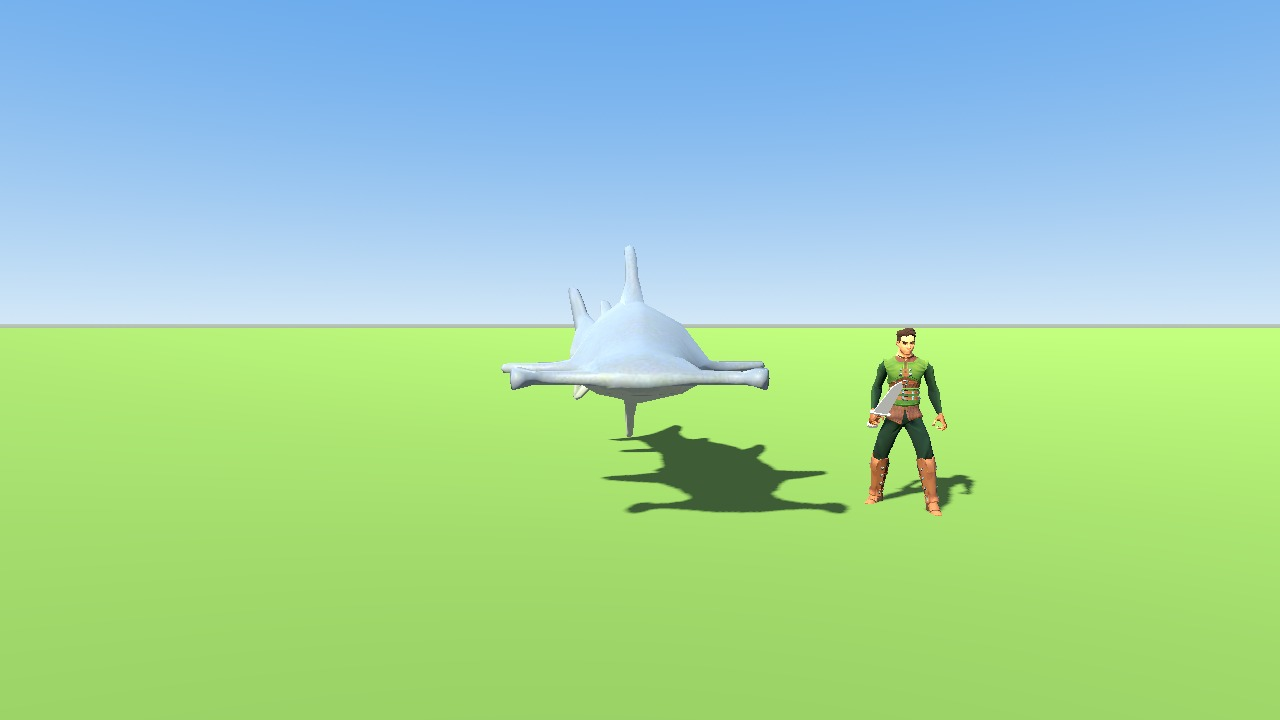
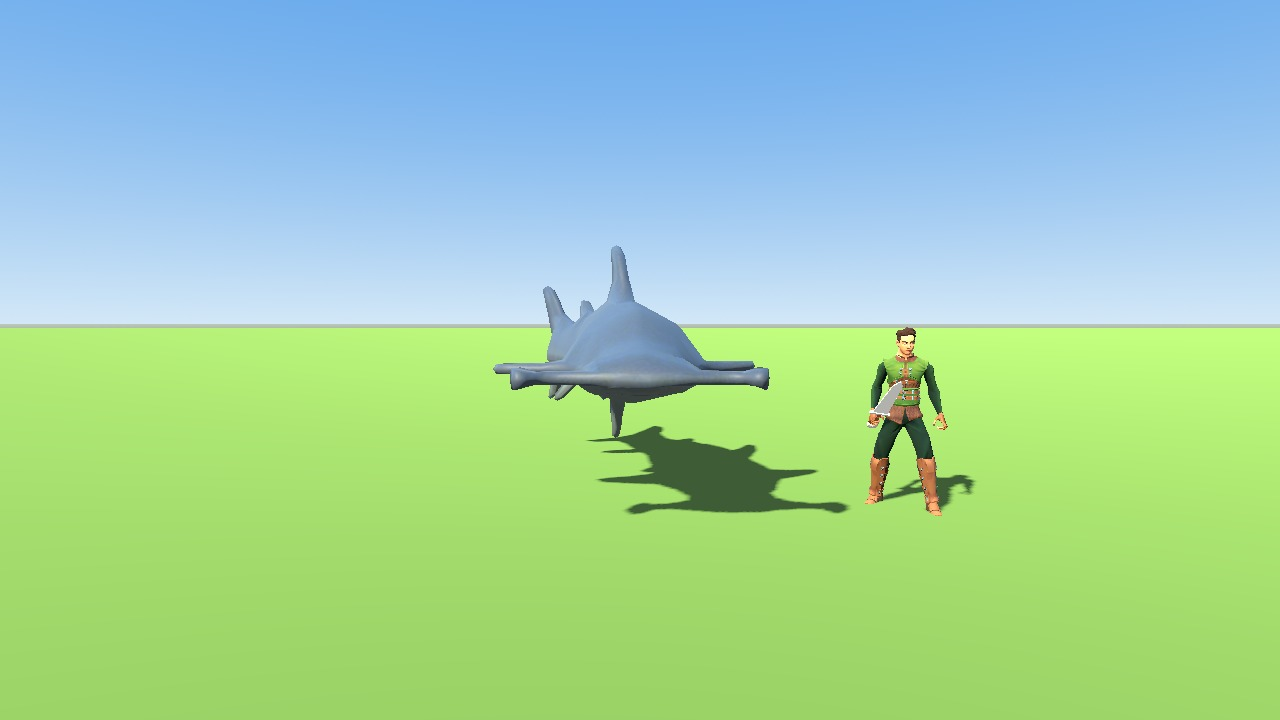
Som do jogo e tubarão conferido dentro do mar
Som: 22 arquivos gerados por síntese, classe Sons; teste_mundo TUDO PASSOU
(efeitos carregam, 4 laços tocam, passos ao andar, rugido ao domar). Ninguém ouviu:
este ambiente não tem saída de áudio.
Tubarão: 3 fotos dentro do mar com câmera solta; escurecido depois delas (só a bancada foi refeita).

Claude-Session: https://claude.ai/code/session_01Vzt37KowdLhiG16GmA9WD3

Changed region(s): [[0.375, 0.3361, 0.625, 0.7028], [0.5938, 0.6417, 0.6562, 0.6722], [0.6875, 0.5194, 0.7188, 0.55]]

diff --git a/assets/ASSETS.md b/assets/ASSETS.md
@@ -319,7 +319,7 @@ Pedida pelo Cristian depois do Marco 7: casas sem teto, plantação que não par
 
 
 ## Mapa novo: a ilha (24/11/2026, em construção)
-- **Tubarão (`assets/models/criaturas/tubarao/tubarao.glb`):** tubarão-martelo "Shark - low poly" de Phelippeau Rudy, OpenGameArt (https://opengameart.org/content/shark-low-poly), licença **CC0**. Baixado em 26/11/2026 com autorização do usuário ("já faz o tubarão"). Convertido de `.blend` para `.glb` por `tools/criaturas/converter_tubarao.py` (Blender 5.3 como módulo `bpy`): material refeito com a pintura original, sombreado suave e animação **`Swim`** criada no script (5 ossos: cabeça, corpo, cauda e duas barbatanas; a cauda ondula de lado). No jogo (`scripts/criaturas/tubarao.gd`, `Tubarao.criar_modelo()`): escala 0,75 (5,7 m), tingido de cinza-azulado, animação ativada de forma explícita. Bancada: `tools/bancada_construcao.gd -- tubarao`; fotos de lado, frente, costas, cima e cabeça ampliada em `docs/validacao/tubarao/`. O `PLACEHOLDER_Tubarao` (barbatana de prisma) foi substituído. Dentro do jogo só foi visto de longe (foto `docs/validacao/tubarao/20_no_mar.jpg`: o aviso aparece e há uma barbatana no horizonte; a câmera debaixo d'água sai lavada neste ambiente sem placa de vídeo). Conferir de perto no Mac. Estilo: malha de poucos polígonos com sombreado suave; conferido contra o Torin.
+- **Tubarão (`assets/models/criaturas/tubarao/tubarao.glb`):** tubarão-martelo "Shark - low poly" de Phelippeau Rudy, OpenGameArt (https://opengameart.org/content/shark-low-poly), licença **CC0**. Baixado em 26/11/2026 com autorização do usuário ("já faz o tubarão"). Convertido de `.blend` para `.glb` por `tools/criaturas/converter_tubarao.py` (Blender 5.3 como módulo `bpy`): material refeito com a pintura original, sombreado suave e animação **`Swim`** criada no script (5 ossos: cabeça, corpo, cauda e duas barbatanas; a cauda ondula de lado). No jogo (`scripts/criaturas/tubarao.gd`, `Tubarao.criar_modelo()`): escala 0,75 (5,7 m), tingido de cinza-azulado, animação ativada de forma explícita. Bancada: `tools/bancada_construcao.gd -- tubarao`; fotos de lado, frente, costas, cima e cabeça ampliada em `docs/validacao/tubarao/`. O `PLACEHOLDER_Tubarao` (barbatana de prisma) foi substituído. Dentro do jogo foi fotografado na água com câmera solta, de lado, de cima e de frente (`docs/validacao/tubarao/40_` a `42_`): aparece, vem de cabeça para o Torin e ondula o corpo. Depois dessas fotos foi escurecido mais um pouco (saía claro) e refotografado só na bancada. A água deste ambiente sem placa de vídeo sai branca, então a linha d'água no corpo dele precisa ser conferida no Mac. Estilo: malha de poucos polígonos com sombreado suave; conferido contra o Torin.
 - A ilha em si (costa, estradas, rios, biomas) é gerada por código a partir de `scripts/mundo/mundo_dados.gd`; não usa asset novo. Detalhes em `docs/mapa-novo/CONSTRUCAO_v1.md`.
 
 ## O reino de Valdoria (25/11/2026)
@@ -335,3 +335,8 @@ Pedida pelo Cristian depois do Marco 7: casas sem teto, plantação que não par
 - Pinturas desenhadas por código: `fachadas.gd` (térreo de pedra e rebocado, sobrado de enxaimel, telhas, luz de janela) e `pedra.gd` (cantaria e calçamento).
 - O rei usa o modelo `scenes/personagens/solon.tscn`; guardas e sentinelas, `guarda_imperial.tscn`; todos como gente (Npc), não como inimigo.
 - As seções mais antigas deste arquivo sobre "o reino de Valdoria" (círculo de 1,1 km, bairros, casas de rua) descrevem versões que não existem mais.
+
+## Som (26/11/2026)
+
+- **`assets/audio/*.wav` (22 arquivos, 4 MB):** todos GERADOS por síntese em `tools/audio/gerar_sons.py` (numpy; nada baixado, sem licença de terceiros). 22050 Hz, mono, 16 bits. Efeitos: `passo_terra_0..2`, `passo_pedra_0..2`, `casco`, `golpe`, `acerto`, `dano`, `coletar`, `morte`, `aviso`, `asa`, `rugido`, `passaro_0..2`. Laços (o fim é misturado com o começo; salto na emenda medido abaixo de 0,005): `vento`, `mar`, `grilos`, `musica` (alaúde dedilhado sobre pedal grave, em ré dórico, 58 s).
+- **Quem toca:** `scripts/som/sons.gd` (classe `Sons`, filho do `Jogo`), que só observa o jogador, o clima e a costa. Conferido por teste em `tools/teste_mundo.gd` (carregam, os laços tocam, passos saem ao andar, rugido ao domar). **Ninguém OUVIU ainda:** este ambiente não tem saída de áudio; volume, timbre e gosto precisam ser conferidos no Mac.

diff --git a/CLAUDE.md b/CLAUDE.md
@@ -129,3 +129,4 @@ ReinoDeCinzas/
 - 26/11/2026: o usuário pediu para ANOTAR, para fazer depois: **uma montanha gigante com dragões, onde o Torin vai domar e montar o primeiro dragão**. Ainda não começou; registro em `docs/mapa-novo/IDEIAS-DO-CRISTIAN.md`. E mudou o método das construções (ver "Construções: uma peça por vez, em bancada"): ordem combinada muralha -> rua -> casa.
 - 25/11/2026 (CONSTRUÇÕES e LIMPEZA): o usuário mudou de novo o ritmo: **construir tudo primeiro e atacar os pontos fracos depois** (não parar para aprovar peça por peça; os fracos ficam anotados em `docs/construcoes/*.md`). Kits novos em `scripts/mundo/`: `pecas_de_construcao.gd` (base), `pecas_da_muralha.gd`, `pecas_da_rua.gd` (calçada, lampiões, placas, barraca, carroça) e `catedral.gd`; a casa do casario ganhou relevo. Cada um tem bancada em `tools/bancada_construcao.gd -- muralha|rua|feira|catedral`. E pediu para **ficar só o que o jogo usa, com os arquivos organizados**: saíram `wip/`, 69 ferramentas antigas e duas cenas de teste (lista em `docs/MAPA-DO-TRABALHO.md`). Por isso as ferramentas citadas acima que não existem mais (`auditoria_mundo`, `auditoria_portais`, `auditoria_continua`, `auditoria_cercos`, `auditoria_buracos`, `auditoria_logica`, `teste_cadeia`, `teste_jogo`, `teste_cena`, `percurso_real`, `capturar_*` antigos) NÃO devem ser procuradas: hoje confere-se com `tools/teste_mundo.gd`, `tools/auditoria_reino.gd`, `tools/capturar_reino.gd` (aceita filtro: `-- 02_ 08_`) e as bancadas. AINDA NÃO saiu (toca muitos arquivos, precisa de plano): o código da história e das missões (`scripts/missoes/`, partes de `scripts/jogo/jogo.gd`) e as cenas `scenes/areas/valdoria.tscn` e `castelo_imperial.tscn`, que o jogo não mostra mais.
 - 26/11/2026 (PEDIDO: "faz tudo, só me fala quando terminar"): o usuário NÃO quer atualizações no meio do trabalho nem mensagens longas: quer só "pronto / não pronto", resumido, e que eu olhe as fotos. Feito nesta rodada: **Montanha dos Dragões** (`MundoDados.montanha`, `montanha_dos_dragoes.gd`, `dragao_selvagem.gd`, `domar_dragao.gd`; o dragão domável chama-se Cinza, nome a aprovar), **salvar o jogo** (`scripts/jogo/salvar_jogo.gd`), **tubarão de verdade** (modelo CC0 baixado com autorização, ver `assets/ASSETS.md`), povoados e postos com peças do kit, marcos e pousos de estrada, cabeceiras de ponte, e os pontos fracos do braseiro, dos vitrais e dos fundos das casas. Saíram as áreas antigas `valdoria` e `castelo_imperial` (cenas e scripts). **O código das missões NÃO saiu**: as seis regiões antigas dependem dele (chefes, eventos, avisos na tela usam `GerenciadorMissoes`); tirar é reescrever essas regiões e fica para quando o usuário decidir a história nova. Com `Jogo.historia = false` o jogador não vê mais resto de missão (sem "!" nos NPCs, quadro de avisos vazio, sem "alimentar o dragão ferido"). O chão do mundo foi recalculado por causa da montanha (primeira abertura no Mac: vários minutos). Falta: som, conferir no Mac, história nova.
+- 26/11/2026 (SOM e TUBARÃO NA ÁGUA, pedido do usuário depois de eu dizer "pode baixar" cedo demais: ele só quer ouvir "pronto" quando estiver pronto de verdade): **som** em `scripts/som/sons.gd` com 22 arquivos gerados por `tools/audio/gerar_sons.py` (passos, espada, acerto, dano, coleta, morte, asa, rugido, aviso, vento, mar, grilos, pássaros, música); testado por contagem em `tools/teste_mundo.gd`, mas NINGUÉM OUVIU (aqui não há saída de áudio). Tubarão fotografado dentro do mar (`docs/validacao/tubarao/`). Continua faltando: tirar o código das missões, conferir no Mac (som, água, desempenho), história nova.

diff --git a/docs/MAPA-DO-TRABALHO.md b/docs/MAPA-DO-TRABALHO.md
@@ -17,6 +17,7 @@ Ponto de entrada: [README.md](../README.md) e [CLAUDE.md](../CLAUDE.md). Relato 
 | `scripts/mundo/montanha_dos_dragoes.gd`, `pecas_do_ninho.gd` | A Montanha dos Dragões: ninho, marcos da trilha, arcos de ossos e os dragões. O chão vem de `MundoDados.montanha()`. Ver `docs/construcoes/montanha_dos_dragoes.md`. |
 | `scripts/criaturas/dragao_selvagem.gd`, `domar_dragao.gd` | Dragão selvagem (voando em roda ou pousado) e o gesto de domar com 3 carnes; domado vira a montaria Cinza. |
 | `scripts/jogo/salvar_jogo.gd` | Salvar o jogo: `user://jogo_salvo.json` (lugar, vida, inventário, hora, Cinza domado). Grava a cada 20 s e ao fechar; lê ao abrir. Ferramentas rodadas com `--script` não leem nem gravam. |
+| `scripts/som/sons.gd`, `tools/audio/gerar_sons.py`, `assets/audio/` | O som do jogo: 18 efeitos e 4 laços (vento, mar, grilos, música) gerados por síntese e tocados pela classe `Sons`. Ver `assets/ASSETS.md`, seção Som. |
 | `tools/criaturas/converter_tubarao.py` | Converte o tubarão CC0 de `.blend` para `.glb` com a animação Swim (precisa do módulo `bpy`: `pip install bpy`). |
 | `docs/construcoes/` | Uma pasta e um `.md` por peça (muralha, rua, feira, catedral, cidadela, quartel): critério de pronto, resultado, fotos da bancada (01_...) e de dentro do mundo (20_...), e os pontos fracos anotados para depois. |
 | `tools/bancada_movimento.gd` | BANCADA DE MOVIMENTO: 6 quadros de cada animação de cada ser (vista de lado) e medidas de amplitude, passo e velocidade pedida contra a do jogo. |
